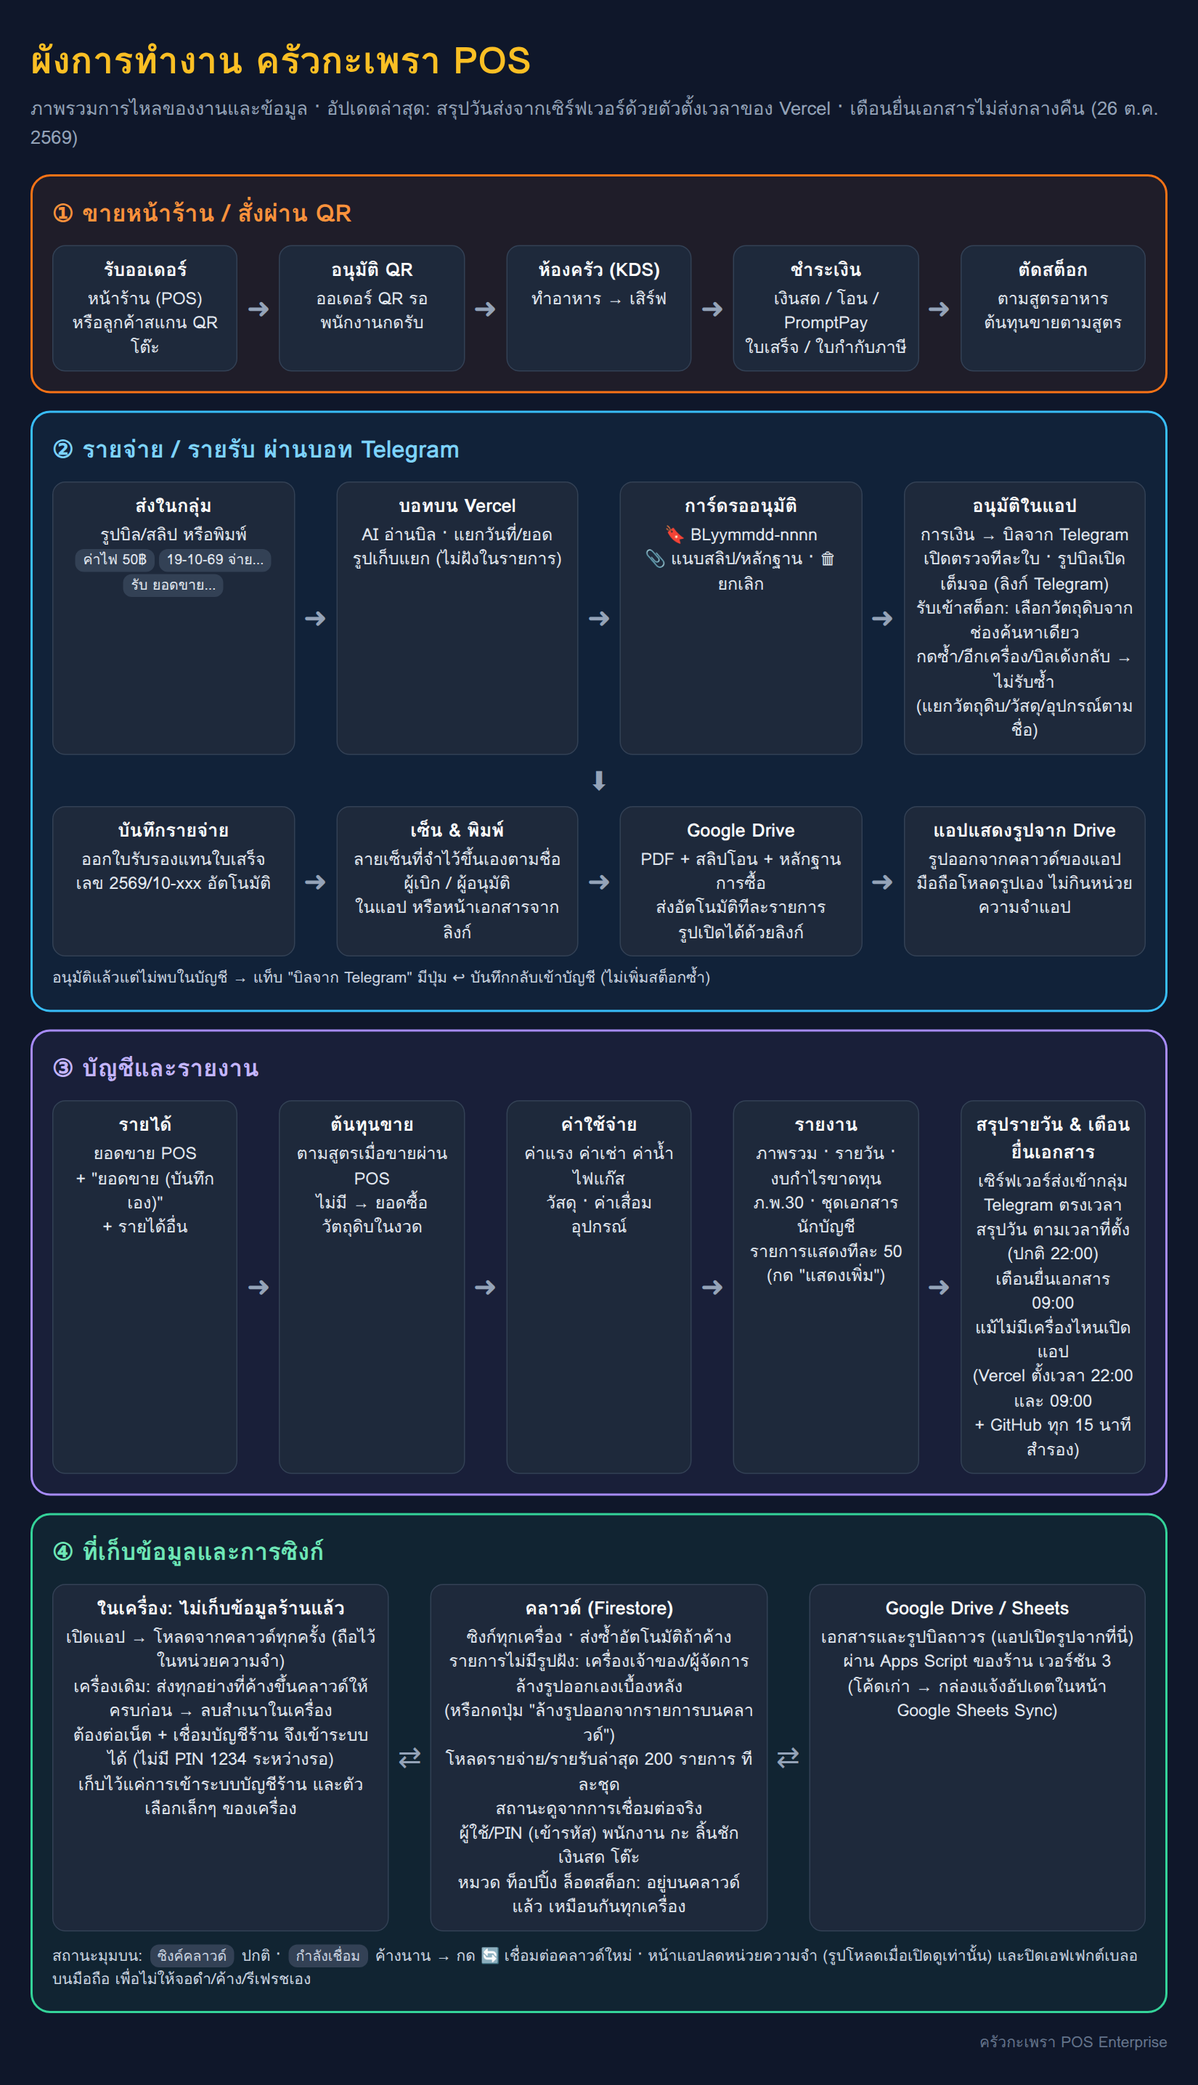
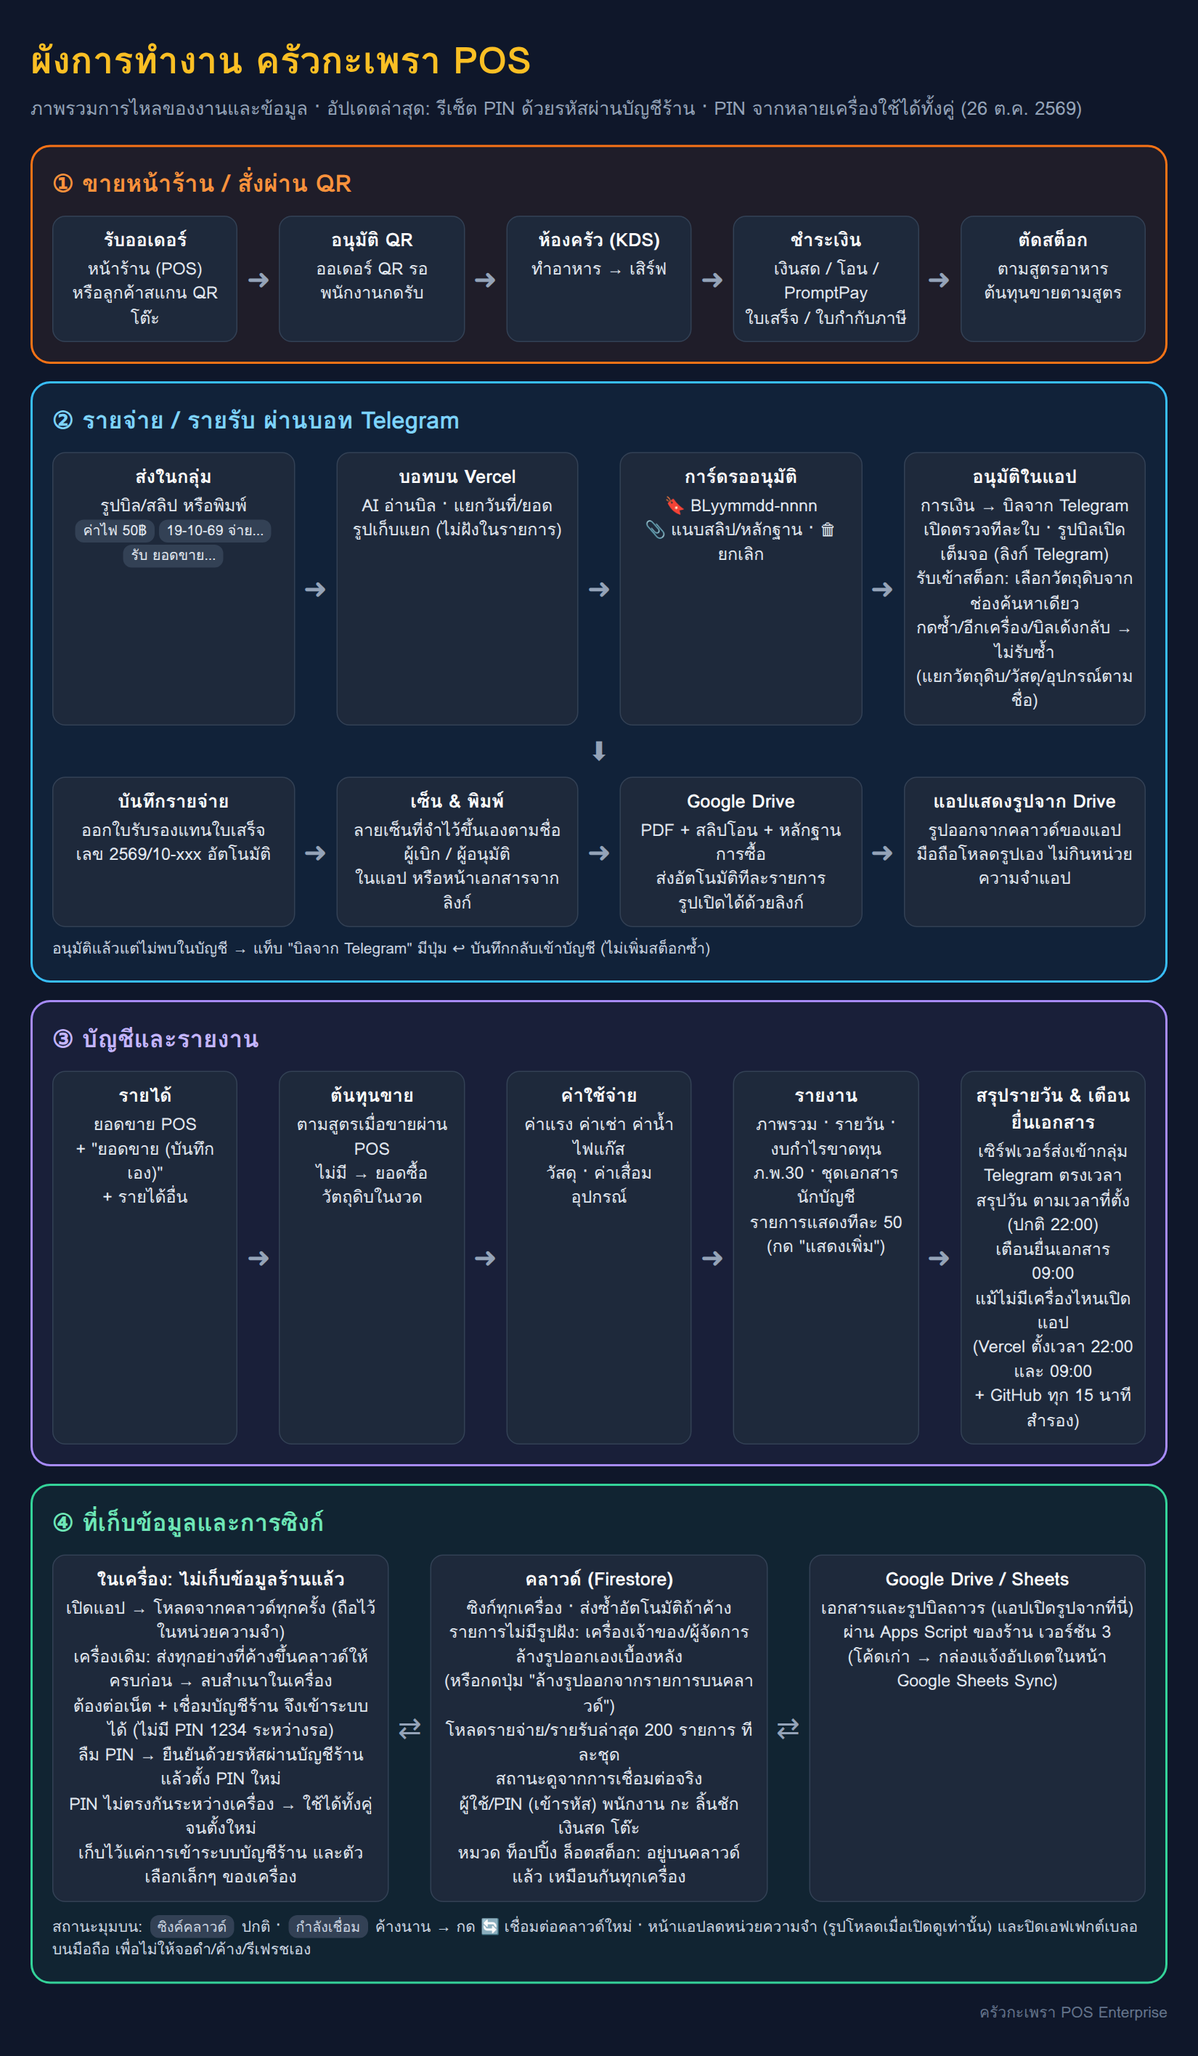
PIN not accepted after the lists came together: reset with the shop account, keep both PINs
The owner's PIN stopped working: when the owner's phone first met the
cloud, the cloud already had the owner with the PIN from another device,
and the cloud's was kept.

- When two devices had different chosen PINs for the same person, the
  cloud's stays and this device's goes into altPins: both work until the
  person sets a new PIN (userPinMatches)
- Forgot PIN: besides a manager PIN, the shop account's password (the
  account this device is signed in with, checked again by Firebase)
  approves setting a new PIN

Claude-Session: https://claude.ai/code/session_01Gq3UvYW4wv3hsVCXoh5wxy

diff --git a/src/components/LoginScreen.tsx b/src/components/LoginScreen.tsx
@@ -1,4 +1,5 @@
 import { ShopAccountStatusButton } from './ShopAccountBanner';
+import { shopAccountEmail, verifyShopPassword } from '../services/firebaseService';
 import React, { useState, useEffect, useCallback, useMemo } from 'react';
 import { SHOP_LOGO_URL, FALLBACK_SVG_LOGO } from '../assets/logo';
 import { UserRole } from '../types';
@@ -23,7 +24,7 @@ import { usePOS } from '../context/POSContext';
 import { isTypingInField } from '../utils/keyboard';
 import { clockChange, loginClockAllowed, openMobileClock, openShift } from '../utils/clock';
 import { localDay } from '../utils/stockHistory';
-import { DEFAULT_PIN_HASH, isWeakPin, notePinAttempt, pinLockRemaining, pinMatches } from '../utils/pins';
+import { DEFAULT_PIN_HASH, isWeakPin, notePinAttempt, pinLockRemaining, pinMatches, userPinMatches } from '../utils/pins';
 
 
 export const LoginScreen: React.FC = () => {
@@ -95,6 +96,9 @@ export const LoginScreen: React.FC = () => {
   const [selectedManagerId, setSelectedManagerId] = useState('');
   const [managerAuthPin, setManagerAuthPin] = useState('');
   const [isManagerApproved, setIsManagerApproved] = useState(false);
+  // No owner or manager PIN works (e.g. forgotten): the shop account's password approves instead
+  const [shopPassword, setShopPassword] = useState('');
+  const [checkingShopPassword, setCheckingShopPassword] = useState(false);
 
   const [newPin, setNewPin] = useState('');
   const [confirmNewPin, setConfirmNewPin] = useState('');
@@ -143,7 +147,7 @@ export const LoginScreen: React.FC = () => {
       setForgotError('ผู้อนุมัติต้องเป็นผู้จัดการหรือเจ้าของร้านเท่านั้น');
       return;
     }
-    if (managerAuthPin && pinMatches(manager.pin, managerAuthPin)) {
+    if (managerAuthPin && userPinMatches(manager, managerAuthPin)) {
       notePinAttempt(true);
       setIsManagerApproved(true);
       setForgotSuccess(`ผู้จัดการ (${manager.name}) อนุมัติสำเร็จ! กรุณาตั้งค่า PIN ใหม่`);
@@ -167,6 +171,37 @@ export const LoginScreen: React.FC = () => {
       });
       setForgotError('PIN ผู้จัดการไม่ถูกต้อง');
     }
+  };
+
+  const handleApproveWithShopPassword = async () => {
+    setForgotError('');
+    if (isLockedOut) {
+      setForgotError(`ใส่รหัสผิดหลายครั้ง กรุณารอ ${lockoutRemaining} วินาที`);
+      return;
+    }
+    if (!shopPassword) {
+      setForgotError('กรอกรหัสผ่านบัญชีร้าน');
+      return;
+    }
+    setCheckingShopPassword(true);
+    const res = await verifyShopPassword(shopPassword);
+    setCheckingShopPassword(false);
+    setShopPassword('');
+    logSecurityEvent?.({
+      userId: selectedUser.id,
+      userName: selectedUser.name,
+      userRole: selectedUser.role,
+      action: 'PIN Reset Approval',
+      status: res.ok ? 'SUCCESS' : 'FAILED',
+      details: res.ok ? `อนุมัติการรีเซ็ต PIN ให้ ${selectedUser.name} ด้วยรหัสผ่านบัญชีร้าน` : `รหัสผ่านบัญชีร้านไม่ถูกต้องขณะรีเซ็ต PIN ให้ ${selectedUser.name}`
+    });
+    if (!res.ok) {
+      registerFailedAttempt();
+      setForgotError(res.error || 'รหัสผ่านบัญชีร้านไม่ถูกต้อง');
+      return;
+    }
+    setIsManagerApproved(true);
+    setForgotSuccess('ยืนยันด้วยบัญชีร้านสำเร็จ! กรุณาตั้งค่า PIN ใหม่');
   };
 
   // Save New PIN
@@ -225,7 +260,7 @@ export const LoginScreen: React.FC = () => {
 
     // The PIN is checked only against the person whose name is selected. Matching any
     // user with that PIN logged people in (or asked them to reset) as someone else.
-    const authenticatedUser = selectedUser && pinMatches(selectedUser.pin, pinToTest) ? selectedUser : null;
+    const authenticatedUser = selectedUser && userPinMatches(selectedUser, pinToTest) ? selectedUser : null;
 
     if (authenticatedUser && isWeakPin(pinToTest)) {
       // Default or trivially guessable PIN: force the user to choose a new one before unlocking the POS
@@ -786,6 +821,30 @@ export const LoginScreen: React.FC = () => {
                   <UserCheck className="w-5 h-5" />
                   <span>อนุมัติและรับสิทธิ์ตั้ง PIN ใหม่</span>
                 </button>
+
+                {shopAccountEmail() && (
+                  <div className="pt-3 mt-1 border-t border-slate-800 space-y-2">
+                    <div className="text-xs text-slate-400">
+                      จำ PIN ผู้จัดการไม่ได้? ใช้รหัสผ่านบัญชีร้าน <span className="text-orange-300">{shopAccountEmail()}</span> แทน
+                    </div>
+                    <input
+                      type="password"
+                      autoComplete="current-password"
+                      value={shopPassword}
+                      onChange={e => setShopPassword(e.target.value)}
+                      className="w-full px-4 py-2.5 bg-slate-950 border border-slate-800 rounded-xl text-slate-200 text-sm focus:outline-none focus:border-orange-500"
+                      placeholder="รหัสผ่านบัญชีร้าน"
+                    />
+                    <button
+                      type="button"
+                      disabled={checkingShopPassword}
+                      onClick={() => void handleApproveWithShopPassword()}
+                      className="w-full py-2.5 rounded-xl border border-orange-500/50 bg-orange-950/40 text-orange-200 font-bold text-sm disabled:opacity-50"
+                    >
+                      {checkingShopPassword ? 'กำลังตรวจ...' : 'ยืนยันด้วยบัญชีร้าน แล้วตั้ง PIN ใหม่'}
+                    </button>
+                  </div>
+                )}
               </form>
             )}
           </div>

diff --git a/docs/workflow/flow.html b/docs/workflow/flow.html
@@ -17,7 +17,7 @@ h1{margin:0 0 4px;font-size:34px;color:#fbbf24}.sub{color:#94a3b8;font-size:17px
 .foot{color:#64748b;font-size:14px;margin-top:6px;text-align:right}
 </style></head><body>
 <h1>ผังการทำงาน ครัวกะเพรา POS</h1>
-<div class="sub">ภาพรวมการไหลของงานและข้อมูล · อัปเดตล่าสุด: สรุปวันส่งจากเซิร์ฟเวอร์ด้วยตัวตั้งเวลาของ Vercel · เตือนยื่นเอกสารไม่ส่งกลางคืน (26 ต.ค. 2569)</div>
+<div class="sub">ภาพรวมการไหลของงานและข้อมูล · อัปเดตล่าสุด: รีเซ็ต PIN ด้วยรหัสผ่านบัญชีร้าน · PIN จากหลายเครื่องใช้ได้ทั้งคู่ (26 ต.ค. 2569)</div>
 
 <div class="lane pos"><h2>① ขายหน้าร้าน / สั่งผ่าน QR</h2>
 <div class="row">
@@ -56,7 +56,7 @@ h1{margin:0 0 4px;font-size:34px;color:#fbbf24}.sub{color:#94a3b8;font-size:17px
 
 <div class="lane data"><h2>④ ที่เก็บข้อมูลและการซิงก์</h2>
 <div class="row">
-<div class="box"><b>ในเครื่อง: ไม่เก็บข้อมูลร้านแล้ว</b>เปิดแอป → โหลดจากคลาวด์ทุกครั้ง (ถือไว้ในหน่วยความจำ)<br>เครื่องเดิม: ส่งทุกอย่างที่ค้างขึ้นคลาวด์ให้ครบก่อน → ลบสำเนาในเครื่อง<br>ต้องต่อเน็ต + เชื่อมบัญชีร้าน จึงเข้าระบบได้ (ไม่มี PIN 1234 ระหว่างรอ)<br>เก็บไว้แค่การเข้าระบบบัญชีร้าน และตัวเลือกเล็กๆ ของเครื่อง</div><div class="ar">⇄</div>
+<div class="box"><b>ในเครื่อง: ไม่เก็บข้อมูลร้านแล้ว</b>เปิดแอป → โหลดจากคลาวด์ทุกครั้ง (ถือไว้ในหน่วยความจำ)<br>เครื่องเดิม: ส่งทุกอย่างที่ค้างขึ้นคลาวด์ให้ครบก่อน → ลบสำเนาในเครื่อง<br>ต้องต่อเน็ต + เชื่อมบัญชีร้าน จึงเข้าระบบได้ (ไม่มี PIN 1234 ระหว่างรอ)<br>ลืม PIN → ยืนยันด้วยรหัสผ่านบัญชีร้าน แล้วตั้ง PIN ใหม่<br>PIN ไม่ตรงกันระหว่างเครื่อง → ใช้ได้ทั้งคู่จนตั้งใหม่<br>เก็บไว้แค่การเข้าระบบบัญชีร้าน และตัวเลือกเล็กๆ ของเครื่อง</div><div class="ar">⇄</div>
 <div class="box"><b>คลาวด์ (Firestore)</b>ซิงก์ทุกเครื่อง · ส่งซ้ำอัตโนมัติถ้าค้าง<br>รายการไม่มีรูปฝัง: เครื่องเจ้าของ/ผู้จัดการล้างรูปออกเองเบื้องหลัง<br>(หรือกดปุ่ม "ล้างรูปออกจากรายการบนคลาวด์")<br>โหลดรายจ่าย/รายรับล่าสุด 200 รายการ ทีละชุด<br>สถานะดูจากการเชื่อมต่อจริง<br>ผู้ใช้/PIN (เข้ารหัส) พนักงาน กะ ลิ้นชักเงินสด โต๊ะ<br>หมวด ท็อปปิ้ง ล็อตสต็อก: อยู่บนคลาวด์แล้ว เหมือนกันทุกเครื่อง</div><div class="ar">⇄</div>
 <div class="box"><b>Google Drive / Sheets</b>เอกสารและรูปบิลถาวร (แอปเปิดรูปจากที่นี่)<br>ผ่าน Apps Script ของร้าน เวอร์ชัน 3<br>(โค้ดเก่า → กล่องแจ้งอัปเดตในหน้า Google Sheets Sync)</div>
 </div>

diff --git a/src/context/POSContext.tsx b/src/context/POSContext.tsx
@@ -567,7 +567,7 @@ export const POSProvider: React.FC<{ children: ReactNode }> = ({ children }) => 
 
   const updateUserPin = (userId: string, plainPin: string) => {
     const newPin = hashPin(plainPin);
-    setUsers(prev => prev.map(u => u.id === userId ? { ...u, pin: newPin } : u));
+    setUsers(prev => prev.map(u => (u.id === userId ? { ...u, pin: newPin, altPins: undefined } : u)));
     setStaffMembers(prev => prev.map(s => s.id === userId ? { ...s, pin: newPin } : s));
     if (currentUser?.id === userId) {
       setCurrentUser(prev => prev ? { ...prev, pin: newPin } : prev);
@@ -1576,7 +1576,16 @@ export const POSProvider: React.FC<{ children: ReactNode }> = ({ children }) => 
     x.pin && !isHashedPin(x.pin) ? { ...x, pin: hashPinWithSalt(x.pin, `cloud-${x.id}`) } : x;
   // A factory or easy PIN loses to a PIN someone chose (on whichever side it is)
   const weakPin = (stored?: string) => !stored || stored === DEFAULT_PIN_HASH || ['1234', '0000', '1111', '2222', '3333', '4444', '5555', '6666', '7777', '8888', '9999'].some(p => pinMatches(stored, p));
-  const preferChosenPin = <T extends { pin?: string }>(mine: T, cloud: T): T => (weakPin(cloud.pin) && !weakPin(mine.pin) ? mine : cloud);
+  const preferChosenPin = <T extends { pin?: string; altPins?: string[] }>(mine: T, cloud: T): T => {
+    if (weakPin(cloud.pin) && !weakPin(mine.pin)) return mine;
+    // Both chosen and different: the cloud's stays, and this device's keeps working too (the person
+    // may only know one of them); setting a new PIN ends both
+    const minePin = mine.pin && !isHashedPin(mine.pin) ? hashPinWithSalt(mine.pin, `cloud-${(mine as any).id}`) : mine.pin;
+    if (!weakPin(mine.pin) && minePin && minePin !== cloud.pin && !(cloud.altPins || []).includes(minePin)) {
+      return { ...cloud, altPins: [...(cloud.altPins || []), minePin] };
+    }
+    return cloud;
+  };
   const single = (key: string) => ({ docOf: () => key, docs: [key] });
   const monthly = (prefix: string, monthOf: (x: any) => string, months = recentMonths) => ({
     docOf: (x: any) => `${prefix}_${(monthOf(x) || '').slice(0, 7) || 'undated'}`,

diff --git a/src/services/firebaseService.ts b/src/services/firebaseService.ts
@@ -36,6 +36,8 @@ import {
   onAuthStateChanged,
   signInAnonymously,
   signInWithEmailAndPassword,
+  EmailAuthProvider,
+  reauthenticateWithCredential,
   signOut,
   type Auth
 } from 'firebase/auth';
@@ -2944,4 +2946,29 @@ export async function cloudWritesDone(timeoutMs = 30_000): Promise<boolean> {
     waitForPendingWrites(dbInstance).then(() => true, () => false),
     new Promise<boolean>(resolve => setTimeout(() => resolve(false), timeoutMs))
   ]);
+}
+
+/**
+ * The shop account's password, checked again (e.g. to set a new PIN when nobody remembers one).
+ * Only on a device signed in with the shop account.
+ */
+export async function verifyShopPassword(password: string): Promise<{ ok: boolean; error?: string }> {
+  const u = authInstance?.currentUser;
+  if (!u || u.isAnonymous || !u.email) return { ok: false, error: 'เครื่องนี้ยังไม่ได้เชื่อมบัญชีร้าน' };
+  try {
+    await reauthenticateWithCredential(u, EmailAuthProvider.credential(u.email, password));
+    return { ok: true };
+  } catch (err: any) {
+    const code = String(err?.code || '');
+    if (code.includes('invalid-credential') || code.includes('wrong-password')) return { ok: false, error: 'รหัสผ่านบัญชีร้านไม่ถูกต้อง' };
+    if (code.includes('too-many-requests')) return { ok: false, error: 'ลองผิดหลายครั้ง กรุณารอสักครู่' };
+    if (code.includes('network')) return { ok: false, error: 'เชื่อมต่ออินเทอร์เน็ตไม่ได้' };
+    return { ok: false, error: err?.message || 'ตรวจรหัสผ่านไม่สำเร็จ' };
+  }
+}
+
+/** The email of the shop account this device is signed in with ('' when none) */
+export function shopAccountEmail(): string {
+  const u = authInstance?.currentUser;
+  return u && !u.isAnonymous && u.email ? u.email : '';
 }

diff --git a/src/utils/pins.ts b/src/utils/pins.ts
@@ -91,6 +91,12 @@ export function pinMatches(stored: string | undefined, entered: string): boolean
   return hashPinWithSalt(p, salt) === stored;
 }
 
+/** The typed PIN is this person's (their PIN, or one they had on another device) */
+export function userPinMatches(u: { pin?: string; altPins?: string[] } | undefined, entered: string): boolean {
+  if (!u) return false;
+  return pinMatches(u.pin, entered) || (u.altPins || []).some(p => pinMatches(p, entered));
+}
+
 /** Factory/demo PINs and repeated digits (0000, 1111, …) are the first things anyone tries */
 export const isWeakPin = (pin: string | undefined): boolean => !pin || pin === DEFAULT_PIN || /^(\d)\1{3}$/.test(pin);
 
@@ -151,7 +157,7 @@ export function pinLockMessage(now = Date.now()): string {
 export function findManagerByPin(pin: string, users: User[], settings: Partial<SystemSettings>): { name: string; role: string } | null {
   const p = (pin || '').trim();
   if (!p) return null;
-  const user = users.find(u => (u.role === 'admin' || u.role === 'manager') && pinMatches(u.pin, p));
+  const user = users.find(u => (u.role === 'admin' || u.role === 'manager') && userPinMatches(u, p));
   if (user) return { name: user.name, role: user.role };
   if (pinMatches(settings.adminPin, p)) return { name: 'เจ้าของร้าน', role: 'admin' };
   if (pinMatches(settings.managerPin, p)) return { name: 'ผู้จัดการ', role: 'manager' };

diff --git a/src/utils/__tests__/pins.test.ts b/src/utils/__tests__/pins.test.ts
@@ -58,3 +58,14 @@ describe('wrong PIN lockout', () => {
     expect(notePinAttempt(false, t + 200_000)).toBe(0);
   });
 });
+
+describe('userPinMatches', () => {
+  it('accepts the PIN and the PINs the person had on another device', async () => {
+    const { userPinMatches, hashPinWithSalt } = await import('../pins');
+    const u = { pin: hashPinWithSalt('4321', 's1'), altPins: [hashPinWithSalt('8642', 's2')] };
+    expect(userPinMatches(u, '4321')).toBe(true);
+    expect(userPinMatches(u, '8642')).toBe(true);
+    expect(userPinMatches(u, '1111')).toBe(false);
+    expect(userPinMatches(undefined, '4321')).toBe(false);
+  });
+});

diff --git a/src/types.ts b/src/types.ts
@@ -428,6 +428,11 @@ export interface User {
   name: string;
   role: UserRole;
   pin: string;
+  /**
+   * PINs this person also had on another device when the devices' lists first came together in the
+   * cloud: each still works until the person sets a new PIN
+   */
+  altPins?: string[];
   branchId?: string; // empty means all branches
   avatarColor: string;
   permissions?: StaffPermissions;
